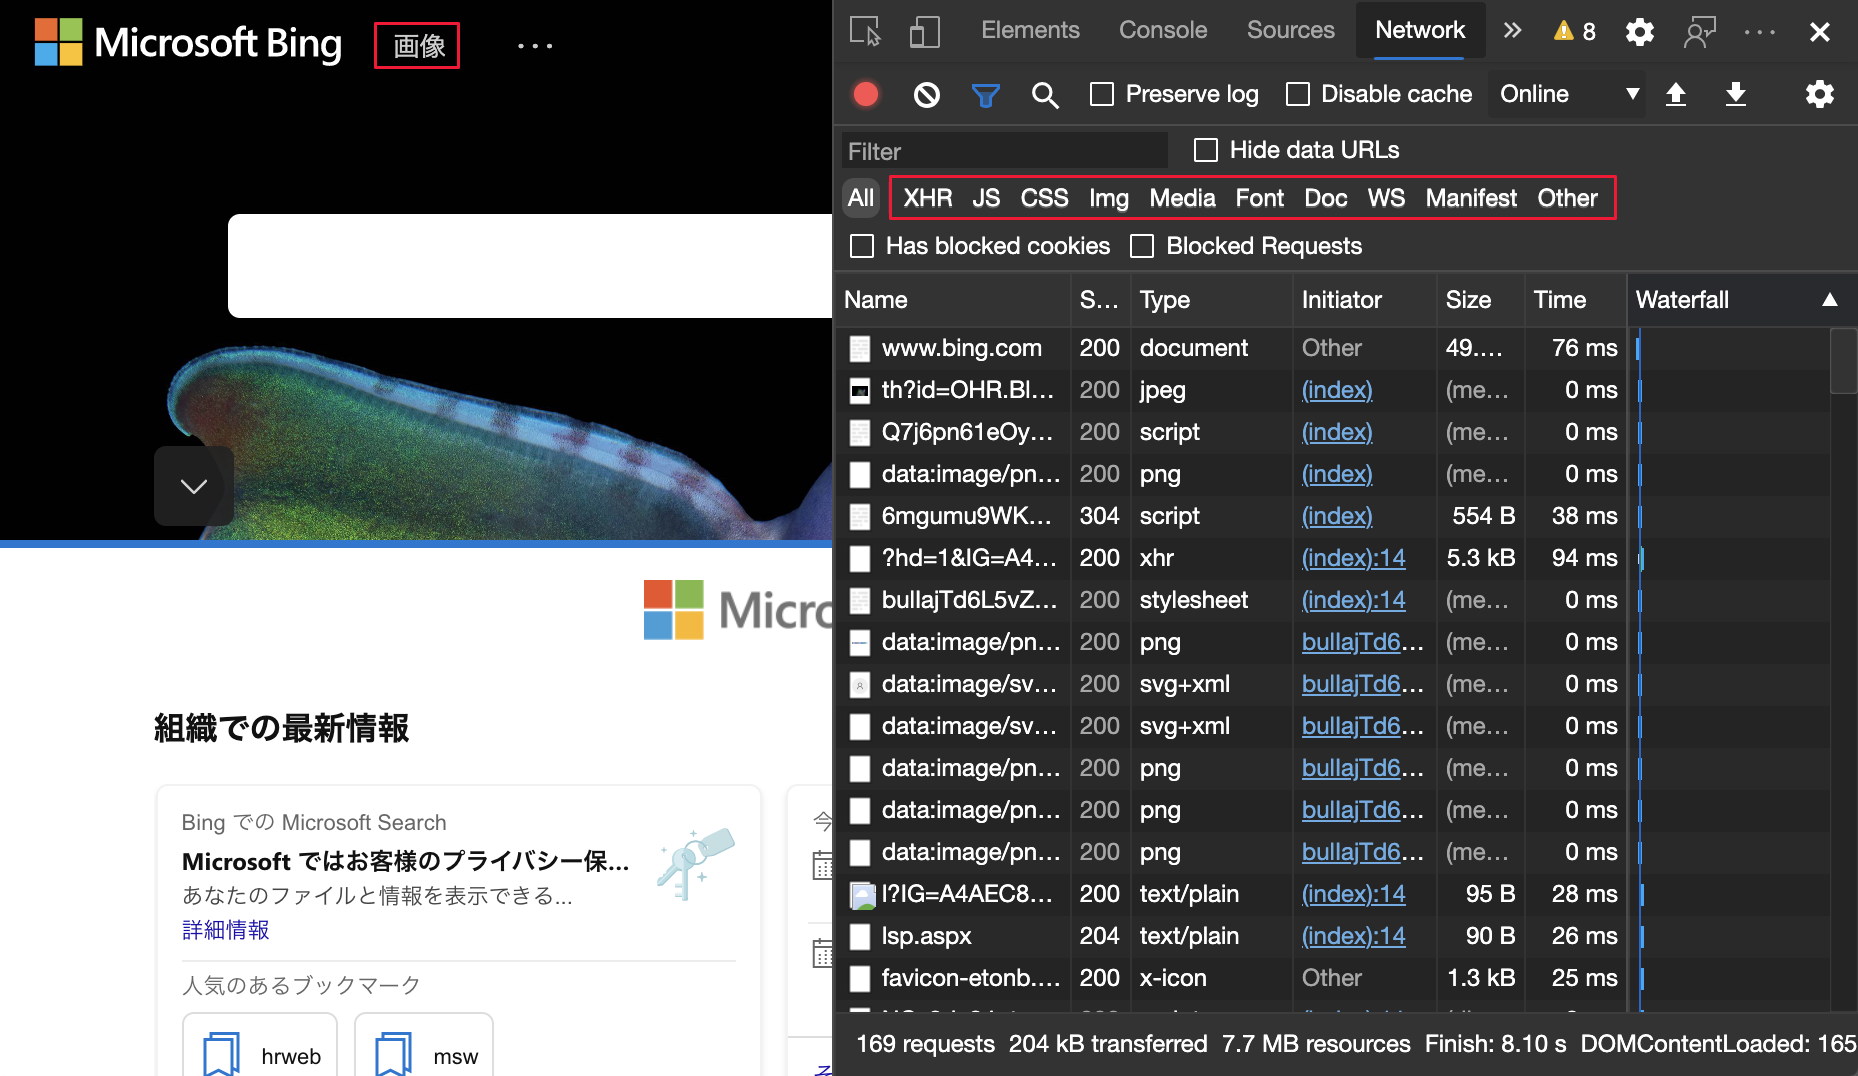
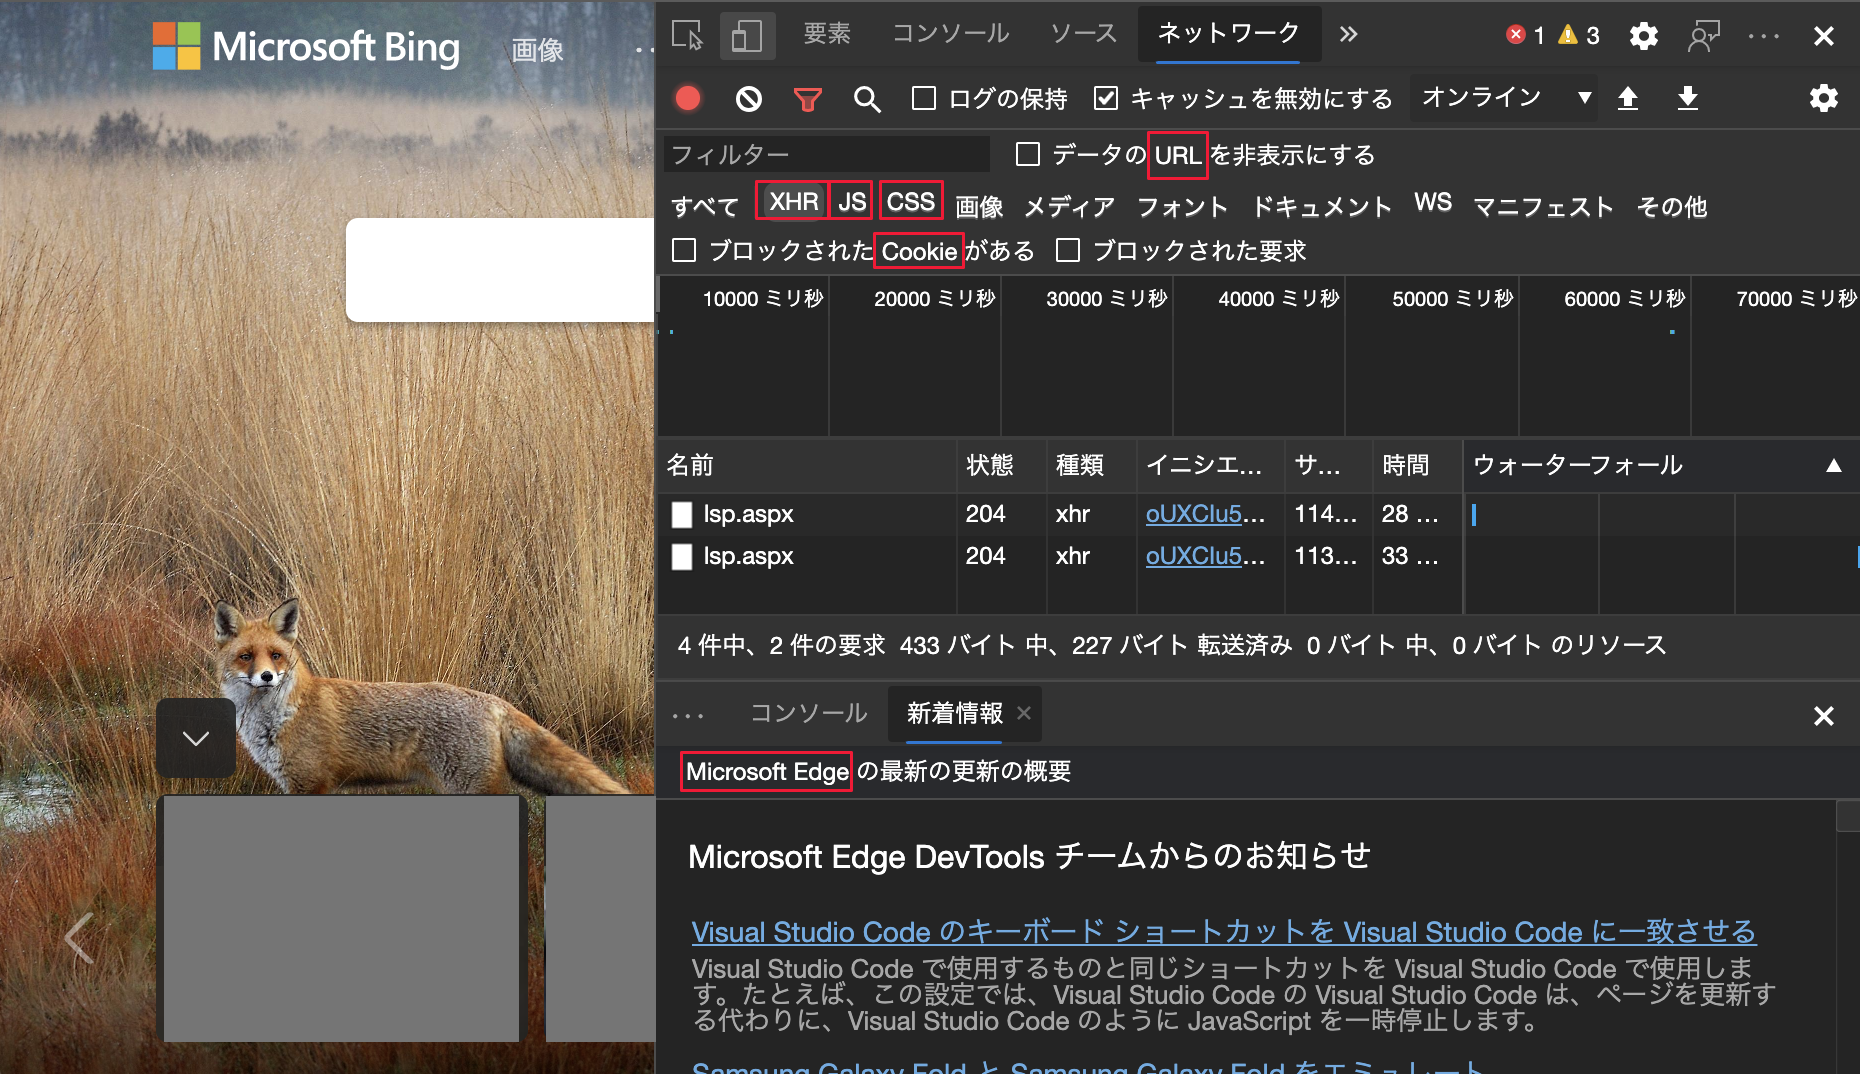
commit from WebFundamentals

diff --git a/microsoft-edge/devtools-guide-chromium/whats-new/2020/10/devtools.md b/microsoft-edge/devtools-guide-chromium/whats-new/2020/10/devtools.md
@@ -23,8 +23,6 @@ In Microsoft Edge version 87, several strings and terms are locked and do not ch
 *   The term `service worker`.  
 *   Some of the **Network** tool filters such as `URL`, `XHR`, `JS`, and `CSS`.  
 
-<!-- The **Lighthouse** pane was not localized since it is an independent project.  -->  
-
 :::image type="complex" source="../../media/2020/10/bing-network-japanese.msft.png" alt-text="Network pane with non-localized filters" lightbox="../../media/2020/10/bing-network-japanese.msft.png":::
    **Network** pane with non-localized filters  
 :::image-end:::  
@@ -64,11 +62,12 @@ To review real-time updates on this feature in the Chromium open-source project,
    Experimental feature  
 :::image-end:::  
 
-The experimental **Network Console** tool now supports the following actions.  
+<!--TODO  ask Rob (@ropaveza) to clarify  -->  
+
+The experimental **Network Console** tool improves compatibility with the [Postman v2.1][PostmanSchemaJsonCollectionv210Index] and [OpenAPI v2][SwaggerSpecificationv2] schemas.  This experiment now supports the following actions.  
 
 *   Save and export Collections and Environments using a new system.  
 *   Edit and export sets of environment variables within the **Network Console** tool.  
-*   Improved compatibility with the [Postman v2.1][PostmanSchemaJsonCollectionv210Index] and [OpenAPI v2][SwaggerSpecificationv2] schemas.  
     
 <!--TODO  The following images are presented for your review, please proved feedback.  -->  
 :::row:::
@@ -116,7 +115,7 @@ The experimental **Network Console** tool now supports the following actions.
    :::column-end:::
 :::row-end:::  
 
-<!--TODO provide the CR is available -->  
+<!--TODO provide the CR when it is available -->  
 To review real-time updates on this feature in the Chromium open-source project, navigate to [Issue #][CR].  
 
 <!--[]:  ""  -->  
@@ -127,14 +126,16 @@ To review real-time updates on this feature in the Chromium open-source project,
    Experimental feature  
 :::image-end:::  
 
-In Microsoft Edge version 87, new CSS grid tooling features are now available.  The Microsoft Edge DevTools now support the following features for inspecting, viewing, and debugging your CSS grids.  
+<!--TODO Ask Rachel to verify  -->  
+
+In Microsoft Edge version 87, new **CSS grid tooling** features are now available.  The Microsoft Edge DevTools now support the following features for inspecting, viewing, and debugging your CSS grids.  
 
 *   Displays a simplified grid overlay using the **Inspect** tool, or get more detailed information with persistent overlays.  
 *   To enable persistent grids, choose the grid icon next to a grid element in the **Elements** pane or choose the grid in the **Layout** pane.  
 *   You may enable persistent overlays for multiple grids.  
 *   The new **Layout** pane allows you to easily toggle grid overlays and configure the appearance and the content for each.  
 
-:::image type="complex" source="../../media/2020/10/grid-layout-pane.msft.png" alt-text="Layout pane with grids" lightbox="../../media/2020/10/grid-layout-pane.msft.pngg":::
+:::image type="complex" source="../../media/2020/10/grid-layout-pane.msft.png" alt-text="Layout pane with grids" lightbox="../../media/2020/10/grid-layout-pane.msft.png":::
    **Layout** pane with grids  
 :::image-end:::  
 
@@ -154,13 +155,31 @@ To review real-time updates on this feature in the Chromium open-source project,
 
 ## Introducing the Microsoft Edge Tools for Visual Studio Code extension  
 
-The **Elements for Visual Studio Code** and **Network for Visual Studio Code** extensions are now merged into the new [Edge Developer Tools for Visual Studio Code][VisualStudioCodeMarketplaceMsEdgedevtools] extension.  You are now able to debug the DOM, edit CSS, and inspect network traffic using developer tools without leaving Visual Studio Code.  
+The **Elements for Visual Studio Code** and **Network for Visual Studio Code** extensions are now merged into the new Microsoft [Edge Developer Tools for Visual Studio Code][VisualStudioCodeMarketplaceMsEdgedevtools] extension.  Use the Microsoft Edge DevTools for the following activities without leaving Visual Studio Code.  
+
+*   Debug the DOM  
+*   Edit CSS  
+*   Inspect network traffic  
 
 With the extension, launch Microsoft Edge, connect to an existing instance of the browser, or use a headless browser directly from your editor.  
+
+:::row:::
+   :::column span="":::
+      :::image type="complex" source="../../media/2020/10/blogs-microsoft-edge-tools-06.msft.png" alt-text="Windows Blog for Elements for Microsoft Edge Visual Studio Code extension - Using the extension in full browser mode screenshot" lightbox="../../media/2020/10/blogs-microsoft-edge-tools-06.msft.png":::
+         Windows Blog for **Elements for Microsoft Edge Visual Studio Code** extension - Using the extension in full browser mode screenshot  
+      :::image-end:::  
+   :::column-end:::
+   :::column span="":::
+      :::image type="complex" source="../../media/2020/10/blogs-microsoft-edge-tools-07.msft.png" alt-text="Windows Blog for Elements for Microsoft Edge Visual Studio Code extension - Using the extension in headless mode screenshot" lightbox="../../media/2020/10/blogs-microsoft-edge-tools-07.msft.png":::
+         Windows Blog for **Elements for Microsoft Edge Visual Studio Code** extension - Using the extension in headless mode screenshot  
+      :::image-end:::  
+   :::column-end:::
+:::row-end:::  
 
 To start contributing and filing issues with your feedback, navigate to the [Microsoft Edge Developer Tools for Visual Studio Code][GithubMicrosoftVscodeEdgeDevtools] repo on GitHub.  
 
 <!--TODO  The following images are presented for your review, please proved feedback.  -->  
+<!--  
 :::row:::
    :::column span="":::
       :::image type="complex" source="../../media/2020/10/blogs-microsoft-edge-tools-01.msft.png" alt-text="Windows Blog introduction for Elements for Microsoft Edge Visual Studio Code extension" lightbox="../../media/2020/10/blogs-microsoft-edge-tools-01.msft.png":::
@@ -192,21 +211,10 @@ To start contributing and filing issues with your feedback, navigate to the [Mic
       :::image-end:::  
    :::column-end:::
    :::column span="":::
-      :::image type="complex" source="../../media/2020/10/blogs-microsoft-edge-tools-06.msft.png" alt-text="Windows Blog for Elements for Microsoft Edge Visual Studio Code extension - Using the extension in full browser mode screenshot" lightbox="../../media/2020/10/blogs-microsoft-edge-tools-06.msft.png":::
-         Windows Blog for **Elements for Microsoft Edge Visual Studio Code** extension - Using the extension in full browser mode screenshot  
-      :::image-end:::  
-   :::column-end:::
-:::row-end:::  
-:::row:::
-   :::column span="":::
-      :::image type="complex" source="../../media/2020/10/blogs-microsoft-edge-tools-07.msft.png" alt-text="Windows Blog for Elements for Microsoft Edge Visual Studio Code extension - Using the extension in headless mode screenshot" lightbox="../../media/2020/10/blogs-microsoft-edge-tools-07.msft.png":::
-         Windows Blog for **Elements for Microsoft Edge Visual Studio Code** extension - Using the extension in headless mode screenshot  
-      :::image-end:::  
-   :::column-end:::
-   :::column span="":::
       &nbsp;  
    :::column-end:::
 :::row-end:::  
+-->  
 
 ## Announcements from the Chromium project  
 
@@ -216,17 +224,15 @@ To start contributing and filing issues with your feedback, navigate to the [Mic
 
 Emulate authenticators and debug the [Web Authentication API][GithubW3cWebauthn] with the new [WebAuthn][DevtoolsWebauthnIndex] tool.  
 
-To open the WebAuthn tool, choose the **Settings and more** \(`...`\) icon > **More tools** > **WebAuthn**.  
+To open the **WebAuthn** tool, choose the **Settings and more** \(`...`\) icon > **More tools** > **WebAuthn**.  
 
 :::image type="complex" source="../../media/2020/10/more-tools-webauthn.msft.png" alt-text="WebAuthn tool" lightbox="../../media/2020/10/more-tools-webauthn.msft.png":::
    **WebAuthn** tool  
 :::image-end:::  
 
-Before the new **WebAuthn** tool was added, there was no native WebAuthn debugging support on Microsoft Edge.  You needed physical authenticators to test your web application with the Web Authentication API.  
+Before the new **WebAuthn** tool was added, there was no native WebAuthn debugging support on Microsoft Edge.  You needed physical authenticators to test your web application with the Web Authentication API.  With the new **WebAuthn** tool, emulate the authenticators, customize the capabilities, and inspect the states, without the use of any physical authenticators.  This feature simplifies the debugging experience.  
 
-With the new **WebAuthn** tool, emulate the authenticators, customize the capabilities, and inspect the states, without the use of any physical authenticators.  This feature simplifies the debugging experience.  
-
-For more information about the WebAuthn feature, navigate to [Emulate authenticators and debug WebAuthn in Microsoft Edge DevTools][DevtoolsWebauthnIndex].  
+For more information about the **WebAuthn** feature, navigate to [Emulate authenticators and debug WebAuthn in Microsoft Edge DevTools][DevtoolsWebauthnIndex].  
 
 To review real-time updates on this feature in the Chromium open-source project, navigate to [Issue #1034663][CR1034663].  
 
@@ -234,9 +240,7 @@ To review real-time updates on this feature in the Chromium open-source project,
 
 #### View the Computed sidebar pane in the Styles pane  
 
-Toggle the **Computed sidebar** pane in the **Styles** pane.  
-
-The **Computed sidebar** pane in the **Styles** pane is collapsed by default.  Choose the button to toggle it.  
+Toggle the **Computed sidebar** pane in the **Styles** pane.  The **Computed sidebar** pane in the **Styles** pane is collapsed by default.  Choose the button to toggle it.  
 
 :::image type="complex" source="../../media/2020/10/computed-sidebar-pane.msft.png" alt-text="Computed sidebar pane" lightbox="../../media/2020/10/computed-sidebar-pane.msft.png":::
    Computed sidebar pane  
@@ -246,11 +250,7 @@ To review real-time updates on this feature in the Chromium open-source project,
 
 #### Grouping CSS properties in the Computed pane  
 
-Group the CSS properties by categories in the **Computed** pane.  
-
-Use this grouping feature to more easily navigate in the **Computed** pane \(less scrolling\).  You may also selectively focus on a set of related properties for CSS inspection.  
-
-On the **Elements** pane, choose an element.  Toggle the **Group** checkbox to group \(or ungroup\) the CSS properties.  
+Group the CSS properties by categories in the **Computed** pane.  Use this grouping feature to more easily navigate in the **Computed** pane \(less scrolling\).  You may also selectively focus on a set of related properties for CSS inspection.  On the **Elements** pane, choose an element.  Toggle the **Group** checkbox to group \(or ungroup\) the CSS properties.  
 
 :::image type="complex" source="../../media/2020/10/grouping-css-prop.msft.png" alt-text="Grouping CSS properties" lightbox="../../media/2020/10/grouping-css-prop.msft.png":::
    Grouping CSS properties  
@@ -261,18 +261,6 @@ To review real-time updates on this feature in the Chromium open-source project,
 ### Lighthouse 6.4 in the Lighthouse pane  
 
 The **Lighthouse** pane is now running Lighthouse 6.4.  For more information about Lighthouse release changes, navigate to [release notes][GithubGoogleChromeLighthouseReleasesV641].  
-
-<!--
-:::image type="complex" source="../../media/2020/10/lighthouse.msft.png" alt-text="Lighthouse" lightbox="../../media/2020/10/lighthouse.msft.png":::
-   Lighthouse  
-:::image-end:::  
-
-New audits in Lighthouse 6.4:  
-
-*   **Preload fonts**.  Validates if all fonts that use `font-display: optional` were preloaded.  
-*   **Valid sourcemaps**.  Audits if a page has valid sourcemaps for large, first-party JavaScript.  
-*   **[Experimental] Large JavaScript library**.  Large JavaScript libraries may lead to poor performance.  This audit suggests cheaper alternatives to common, large JavaScript libraries like `moment.js`.  
--->  
 
 To review real-time updates on this feature in the Chromium open-source project, navigate to [Issue #772558][CR772558].  
 
@@ -328,24 +316,11 @@ For more information about how to prevent information leaks and enable COOP and 
 
 To review real-time updates on this feature in the Chromium open-source project, navigate to [Issue #1051466][CR1051466].  
 
-<!--  
-### Deprecation of Settings in the More tools menu  
+### View and fix color contrast issues in the CSS Overview tool  
 
-The `Settings` in the More tools menu is deprecated.  Open the **Settings** from the main tool instead.  
-
-:::image type="complex" source="../../media/2020/10/settings.msft.png" alt-text="Settings in the main tool" lightbox="../../media/2020/10/settings.msft.png":::
-   Settings in the main tool  
+:::image type="complex" source="../../media/2020/06/experimental-tag-14px.msft.png" alt-text="Experimental feature":::
+   Experimental feature  
 :::image-end:::  
-
-To review real-time updates on this feature in the Chromium open-source project, navigate to [Issue #1121312][CR1121312].  
--->  
-
-### Experimental features  
-
-> [!CAUTION]
-> Experimental features are still under development and subject to change.  
-
-#### View and fix color contrast issues in the CSS Overview tool  
 
 > [!NOTE]
 > To enable this experiment, under **Settings** > **Experiments**, choose the **CSS Overview** checkbox.  
